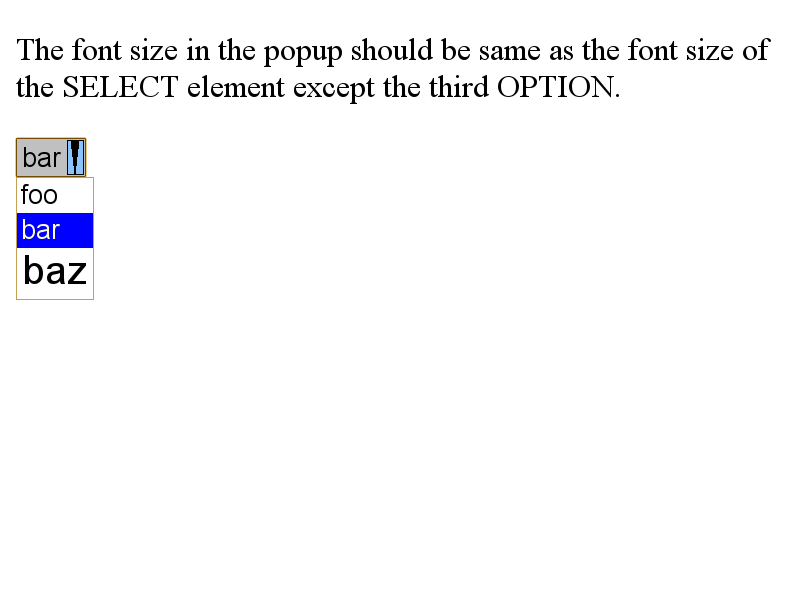
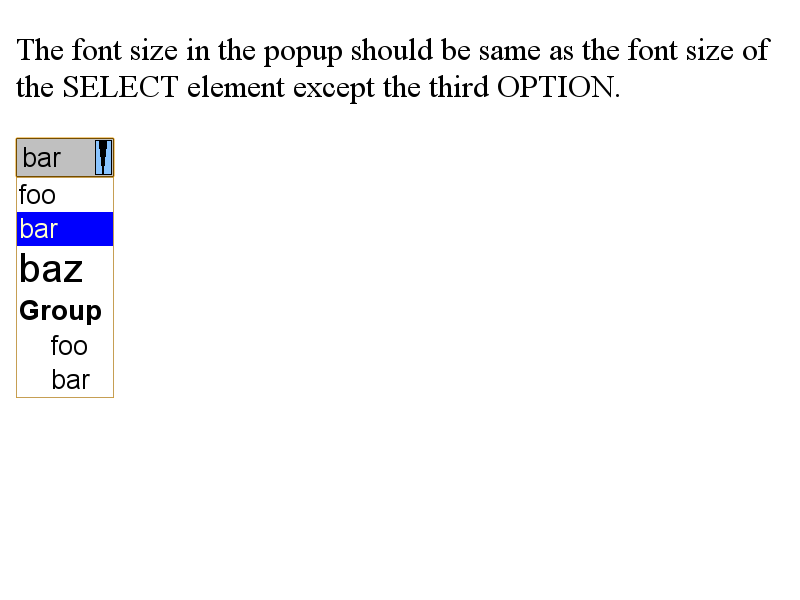
New SELECT popup: Apply font-size of OPTION/OPTGROUP correctly.
We don't need to pass effectiveZoom values to a popup because zoom level already
affects computed font-sizes. The bug was we had "option { font: inherit
!important; }" in themeWin.css. This CL disables this style rule if
RuntimeEnabledFeatures::htmlPopupMenuEnabled, and updates tests.

BUG=463810

Review URL: https://codereview.chromium.org/980053003

git-svn-id: svn://svn.chromium.org/blink/trunk@191350 bbb929c8-8fbe-4397-9dbb-9b2b20218538

Changed region(s): [[0.0, 0.3, 0.1562, 0.66], [0.0625, 0.21, 0.1562, 0.3]]

diff --git a/LayoutTests/fast/forms/select/listbox-appearance-basic.html b/LayoutTests/fast/forms/select/listbox-appearance-basic.html
@@ -37,7 +37,9 @@ document.querySelectorAll('select')[1].focus();
 <!-- font-size -->
 <select multiple style="font-size: 16px;"><option>foo</option></select>
 <select multiple style="font-size: 20px;"><option>foo</option></select>
-<select multiple style="font-size: 24px;"><option>foo</option></select> <br>
+<select multiple style="font-size: 24px;"><option>foo</option></select>
+<select multiple style="font-size: 16px;"><option>foo</option><option style="font-size: 24px;">bar</option></select>
+ <br>
 
 <!-- zoom -->
 <select multiple style="zoom: 1.5;"><option>foo</option></select>

diff --git a/Source/core/css/themeWin.css b/Source/core/css/themeWin.css
@@ -121,13 +121,6 @@ select[size][multiple] {
     border: 1px solid #a9a9a9;
 }
 
-/* Option font must be inherited because we depend on computing the size of the
-   <select> based on the size of the options, and they must use the same font
-   for that computation to be correct */
-option {
-    font: inherit !important;
-}
-
 textarea {
     font-family: monospace;
     /* Same as native_theme_base. */

diff --git a/Source/web/resources/listPicker.js b/Source/web/resources/listPicker.js
@@ -238,7 +238,6 @@ ListPicker.prototype._applyItemStyle = function(element, styleConfig) {
     element.style.display = styleConfig.display;
     element.style.direction = styleConfig.direction;
     element.style.unicodeBidi = styleConfig.unicodeBidi;
-    element.style.zoom = styleConfig.zoom;
 };
 
 ListPicker.prototype._configureItem = function(element, config) {

diff --git a/LayoutTests/fast/forms/select/popup-menu-appearance-zoom.html b/LayoutTests/fast/forms/select/popup-menu-appearance-zoom.html
@@ -14,6 +14,10 @@ window.enablePixelTesting = true;
   <option selected>bar</option>
   <option hidden>qux</option>
   <option style="zoom:1.5;">baz</option>
+  <optgroup label="Group">
+    <option>foo</option>
+    <option>bar</option>
+  </optgroup>
 </select>
 <p id="description" style="opacity: 0"></p>
 <div id="console" style="opacity: 0"></div>

diff --git a/Source/core/layout/LayoutThemeDefault.cpp b/Source/core/layout/LayoutThemeDefault.cpp
@@ -132,15 +132,21 @@ Color LayoutThemeDefault::systemColor(CSSValueID cssValueId) const
 // Use the Windows style sheets to match their metrics.
 String LayoutThemeDefault::extraDefaultStyleSheet()
 {
+    String legacyOptionStyle;
+    if (!RuntimeEnabledFeatures::htmlPopupMenuEnabled()) {
+        // Option font must be inherited because we depend on computing the size
+        // of the <select> based on the size of the options, and they must use
+        // the same font for that computation to be correct.
+        legacyOptionStyle = "option { font: inherit !important; }";
+    }
     return LayoutTheme::extraDefaultStyleSheet()
         + loadResourceAsASCIIString("themeWin.css")
         + loadResourceAsASCIIString("themeChromiumSkia.css")
-#if ENABLE(INPUT_MULTIPLE_FIELDS_UI)
         + loadResourceAsASCIIString("themeChromium.css")
-        + loadResourceAsASCIIString("themeInputMultipleFields.css");
-#else
-        + loadResourceAsASCIIString("themeChromium.css");
+#if ENABLE(INPUT_MULTIPLE_FIELDS_UI)
+        + loadResourceAsASCIIString("themeInputMultipleFields.css")
 #endif
+        + legacyOptionStyle;
 }
 
 String LayoutThemeDefault::extraQuirksStyleSheet()

diff --git a/Source/web/PopupMenuImpl.cpp b/Source/web/PopupMenuImpl.cpp
@@ -155,7 +155,6 @@ void PopupMenuImpl::addElementStyle(HTMLElement& element, SharedBuffer* data)
     addProperty("display", String(style->display() == NONE ? "none" : "block"), data);
     addProperty("direction", String(style->direction() == RTL ? "rtl" : "ltr"), data);
     addProperty("unicodeBidi", String(isOverride(style->unicodeBidi()) ? "bidi-override" : "normal"), data);
-    addProperty("zoom", serializeForNumberType(style->effectiveZoom()), data);
     PagePopupClient::addString("},\n", data);
 }
 
